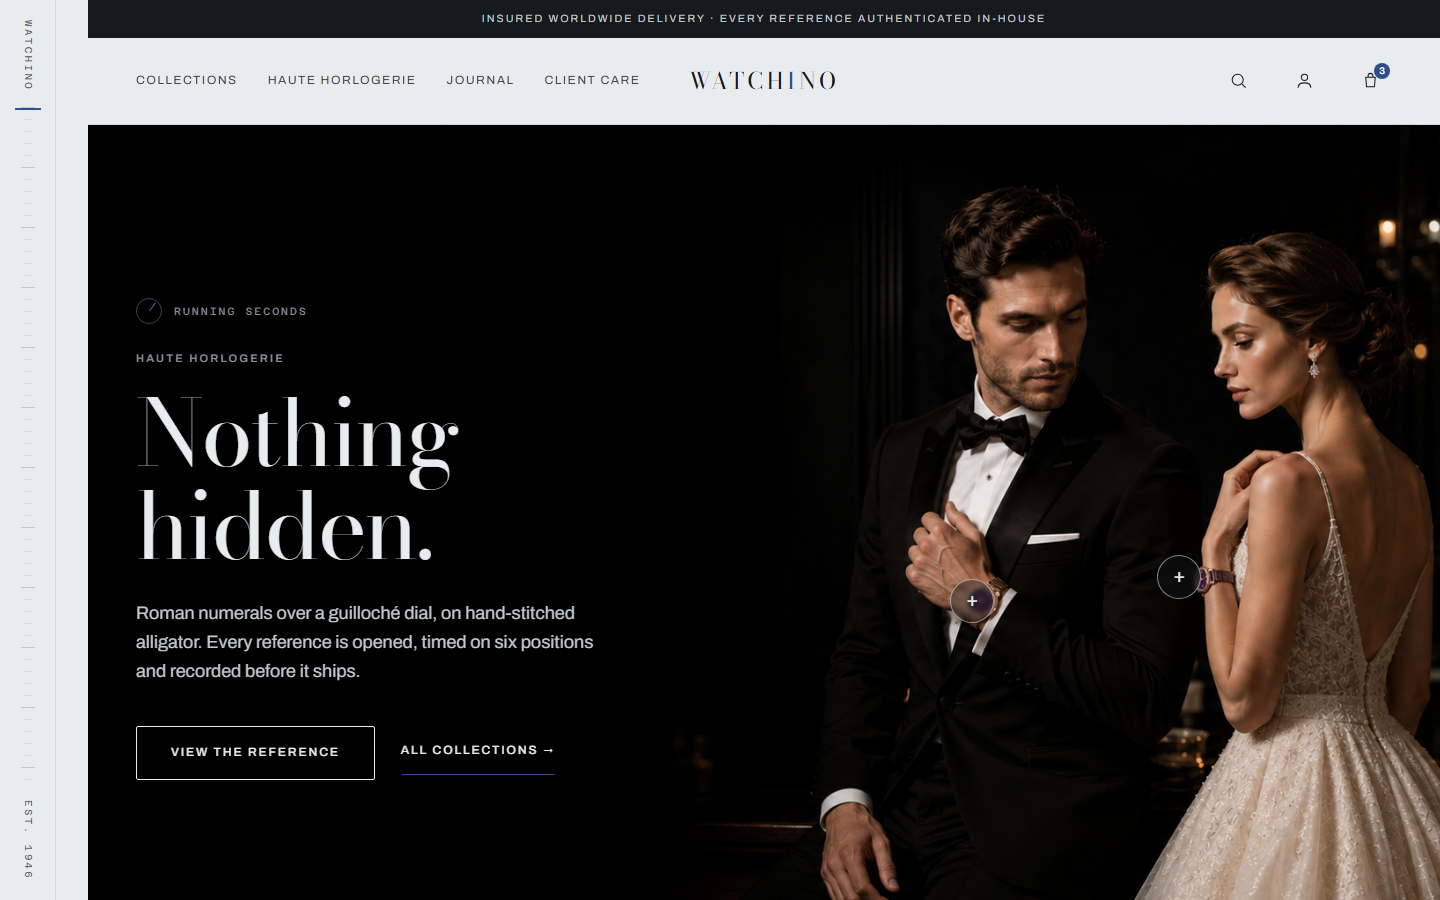
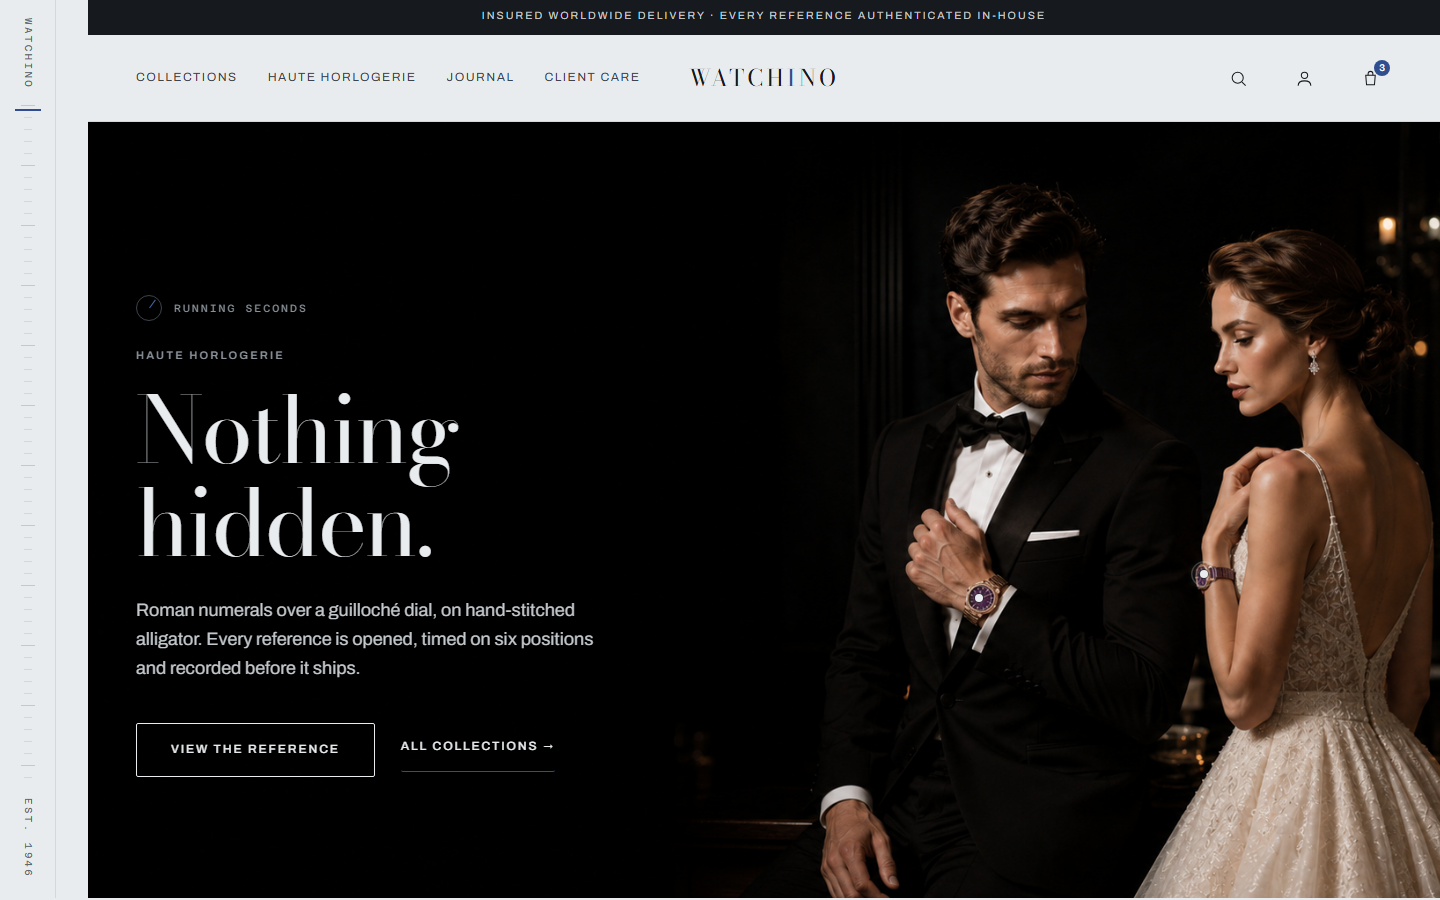
Hero markers: 8px dots, no overlay labels, both references as cards
The 44px pin was larger than the dial it pointed at, so the product disappeared
behind the marker meant to sell it.

The briefed design — dot on the watch, leader line out, label at the end — works
for the man and cannot be built for the woman. Measured, not guessed. At her
wrist height x 80-95% is continuously lit (mean 36-148): her arm, her dress,
then candlelight. The only dark strip, x 96-99%, is cropped away entirely at
1280 and 1024. Searching the whole frame for a label box containing no pixel
brighter than 45 returns six positions, all along the top edge, and a leader to
the nearest samples 151/170/162/164/173 along its path — straight across her
head. Down-left fails too: every candidate contains a 206-238 highlight, the
man's cuff or the candle.

Exactly one clean off-subject position exists in this photograph, and it serves
the man. A label on him alone would read as a bug on her, so per the brief's own
fallback both hotspots go and both references become ordinary cards beneath the
photograph — at every width, because the constraint is the picture and not the
viewport.

An 8px dot now marks each watch: decorative, aria-hidden, pointer-events none.

A REAL BUG THIS UNCOVERED
  The pins were positioned with CSS percentages on an overlay sized to the
  element box. The coordinates are percentages of the PHOTOGRAPH, and
  object-fit:cover crops the two apart — the woman's pin sat 68px off her wrist
[…]

diff --git a/storefront/styles.css b/storefront/styles.css
@@ -1080,41 +1080,40 @@ html.js-reveal .reveal.is-in{opacity:1;transform:none;}
 @media (min-width:1024px){ .hero__media img{object-position:68% 50%;} }
 @media (min-width:1440px){ .hero__media img{object-position:60% 50%;} }
 
-/* --- Hero hotspots --------------------------------------------------------- */
-.hero__spots{position:absolute;inset:0;z-index:3;}
-.hero__spot{position:absolute;transform:translate(-50%,-50%);}
-.hero__pin{
-  width:var(--tap);height:var(--tap);border-radius:50%;
-  display:grid;place-items:center;color:var(--dial);
-  background:rgba(22,25,29,.42);border:1px solid rgba(233,236,238,.55);
-  backdrop-filter:blur(2px);
-  transition:background var(--fast) var(--ease),border-color var(--fast) var(--ease),transform var(--fast) var(--ease);
-}
-.hero__pin span{font-size:19px;line-height:1;transform:translateY(-1px);}
-.hero__pin:hover,.hero__pin:focus-visible{background:var(--blued);border-color:var(--blued);transform:scale(1.06);}
+/* --- Hero markers -----------------------------------------------------------
+   An 8px dot that marks the watch without covering it. The previous 44px pin
+   was larger than the dial it pointed at, so the product disappeared behind the
+   thing meant to sell it.
 
-.hero__card{
-  position:absolute;left:50%;bottom:calc(100% + 12px);transform:translateX(-50%) translateY(6px);
-  width:264px;display:flex;gap:14px;align-items:center;
-  background:var(--dial-pure);color:var(--graphite);
-  border:1px solid var(--rule);border-radius:var(--radius);padding:12px;
-  opacity:0;visibility:hidden;pointer-events:none;
-  transition:opacity var(--fast) var(--ease),transform var(--fast) var(--ease),visibility var(--fast);
+   Not interactive: there is no off-subject position in this photograph for the
+   woman's label (x 80-95% at her wrist height is arm, dress and lit background;
+   the only dark strip, 96-99%, is cropped away at 1280 and below). Both
+   references are ordinary cards under the photograph instead. */
+.hero__spots{position:absolute;inset:0;z-index:3;pointer-events:none;}
+.hero__dot{
+  position:absolute;width:8px;height:8px;border-radius:50%;
+  transform:translate(-50%,-50%);
+  background:var(--dial);
+  box-shadow:0 0 0 1px rgba(22,25,29,.55), 0 0 12px 3px rgba(233,236,238,.35);
 }
-.hero__spot.is-on .hero__card{opacity:1;visibility:visible;transform:translateX(-50%) translateY(0);}
-.hero__card__art{width:64px;height:64px;flex:0 0 64px;background:var(--dial);position:relative;overflow:hidden;}
-.hero__card__art img{position:absolute;inset:4px;width:calc(100% - 8px);height:calc(100% - 8px);object-fit:contain;}
-.hero__card__txt{display:flex;flex-direction:column;gap:3px;min-width:0;}
-.hero__card__name{font-family:var(--display);font-size:15px;line-height:1.2;}
-.hero__card__cta{font-size:11px;letter-spacing:.14em;text-transform:uppercase;color:var(--blued);}
-/* Spots near the right edge would push their card off-screen. */
-.hero__spot:last-child .hero__card{left:auto;right:0;transform:translateX(0) translateY(6px);}
-.hero__spot:last-child.is-on .hero__card{transform:translateX(0) translateY(0);}
+/* A slow pulse says "look here" without moving anything the eye is reading. */
+@media (prefers-reduced-motion:no-preference){
+  .hero__dot::after{
+    content:"";position:absolute;inset:-5px;border-radius:50%;
+    border:1px solid rgba(233,236,238,.5);
+    animation:dotring 3.6s var(--ease) infinite;
+  }
+  @keyframes dotring{
+    0%   {transform:scale(.6);opacity:0;}
+    35%  {opacity:.8;}
+    100% {transform:scale(1.5);opacity:0;}
+  }
+}
 
-@media (prefers-reduced-motion:reduce){
-  .hero__pin,.hero__card{transition:none;}
-  .hero__pin:hover,.hero__pin:focus-visible{transform:none;}
-}
+/* The two references under the photograph. Shown at every width now, not only
+   on mobile, because the hotspots they replace could not be placed cleanly. */
+.heromob{padding-top:clamp(40px,5vw,64px);}
+.heromob .pgrid{grid-template-columns:repeat(2,1fr);gap:clamp(18px,2vw,32px);max-width:760px;}
 
 /* --- Hero below 768 --------------------------------------------------------
    A 16:9 frame is ~219px tall at 390px wide, and the wrists are 15% of the
@@ -1127,7 +1126,7 @@ html.js-reveal .reveal.is-in{opacity:1;transform:none;}
   .hero__media img{object-position:74% 42%;}
   .hero__grid{padding-block:40px 8px;}
   .hero__spots{display:none;}
-  .heromob .pgrid{grid-template-columns:repeat(2,1fr);gap:18px;}
+  
 }
 
 /* Inline text button that reads as a link but is a real <button>. */
@@ -1138,3 +1137,22 @@ html.js-reveal .reveal.is-in{opacity:1;transform:none;}
 /* Load more. A button, not infinite scroll — the footer carries seven real
    destinations and infinite scroll takes it away from people. */
 .loadmore{display:flex;flex-direction:column;align-items:center;gap:14px;padding:52px 0 8px;}
+
+/* --- Header nav at the narrow end of desktop --------------------------------
+   Adding Journal made four items where three fitted. Below ~1200 "Haute
+   Horlogerie" and "Client Care" wrapped to two lines and sat hard against the
+   wordmark — no overflow, no contrast failure, so the audit passed while the
+   header read as broken. Tighten the tracking and gap, and forbid wrapping so
+   the failure would be visible rather than silent. */
+.nav a{white-space:nowrap;}
+@media (max-width:1340px){
+  .nav{gap:20px;}
+  .nav a{font-size:11px;letter-spacing:.08em;}
+}
+@media (max-width:1120px){
+  .nav{gap:13px;}
+  .nav a{font-size:10.5px;letter-spacing:.03em;}
+  /* Client Care lives in the footer too; at this width the wordmark needs the
+     room more than a fourth nav item does. */
+  .nav a:last-child{display:none;}
+}

diff --git a/storefront/home.js b/storefront/home.js
@@ -205,15 +205,19 @@ function fillHome(cat) {
   setImg("[data-service-img]", byId(cat, 709384), "Leather-strap wristwatch on the workbench");
 }
 
-/* ---------- Hero hotspots ----------
-   Resolved from the live catalogue by id: the name and price are never written
-   into the markup, so neither can go stale.
+/* ---------- Hero markers ----------
+   The interactive hotspots were removed. Measured against the photograph, the
+   only label position anywhere in frame that sits on empty dark ground and is
+   reachable without a leader crossing a subject is (51%, 74%) — and it serves
+   the man's watch. For the woman's there is none:
 
-   Hover and focus reveal the same card — hover-only would make the whole
-   feature invisible to a keyboard. Below 768 the spots are not rendered at all
-   and the same references appear as ordinary cards instead. */
-const MOBILE = () => matchMedia("(max-width: 767px)").matches;
+     at her wrist height, x 80-95% is continuously lit (mean 36-148) — her arm,
+     her dress, then candlelit background. The only dark strip is x 96-99%, and
+     object-fit crops that away entirely at 1280 and 1024.
 
+   Rather than crowd a label onto her dress, both watches now carry an 8px dot
+   that marks without covering, and both references appear as ordinary cards
+   below the photograph at every width — the treatment mobile already used. */
 function fillHotspots(cat) {
   const layer = document.querySelector("[data-hero-spots]");
   const mob = document.querySelector("[data-hero-mob]");
@@ -226,51 +230,47 @@ function fillHotspots(cat) {
 
   if (!found.length) { layer.hidden = true; if (mob) mob.hidden = true; return; }
 
-  const draw = () => {
-    if (MOBILE()) {
-      layer.hidden = true;
-      layer.innerHTML = "";
-      if (mob && mobList) {
-        mobList.innerHTML = found.map((h) => cardHTML(h.p)).join("");
-        mob.hidden = false;
-      }
-      return;
-    }
-    if (mob) mob.hidden = true;
-    layer.hidden = false;
-    layer.innerHTML = found.map((h) => `
-      <div class="hero__spot" style="left:${h.x}%;top:${h.y}%">
-        <button class="hero__pin" type="button"
-                aria-label="${esc(h.p.name)}, ${money(h.p.price)} — view reference"
-                aria-expanded="false" data-goto="product.html?id=${h.p.id}">
-          <span aria-hidden="true">+</span>
-        </button>
-        <span class="hero__card" role="presentation">
-          <span class="hero__card__art"><img src="${h.p.image}" alt="" loading="lazy" width="120" height="120"></span>
-          <span class="hero__card__txt">
-            <span class="hero__card__name">${esc(h.p.name)}</span>
-            <span class="price">${money(h.p.price)}</span>
-            <span class="hero__card__cta">View reference →</span>
-          </span>
-        </span>
-      </div>`).join("");
+  /* Decorative only: aria-hidden, no pointer events. The card below each is the
+     accessible, tappable route to the product — a marker that reveals something
+     on hover would be unreachable by keyboard and invisible on touch. */
+  layer.hidden = false;
+  layer.setAttribute("aria-hidden", "true");
+  layer.innerHTML = found.map(() => `<span class="hero__dot"></span>`).join("");
 
-    layer.querySelectorAll(".hero__pin").forEach((btn) => {
-      const spot = btn.closest(".hero__spot");
-      const open = (v) => {
-        spot.classList.toggle("is-on", v);
-        btn.setAttribute("aria-expanded", String(v));
-      };
-      btn.addEventListener("focus", () => open(true));
-      btn.addEventListener("blur", () => open(false));
-      btn.addEventListener("mouseenter", () => open(true));
-      spot.addEventListener("mouseleave", () => open(false));
-      btn.addEventListener("click", () => { location.href = btn.dataset.goto; });
+  /* The coordinates are percentages of the PHOTOGRAPH, but the overlay is the
+     size of the element box — and object-fit:cover crops the two apart. Placing
+     the dots by percentage put the woman's 68px off her wrist at 1024. Project
+     image space into box space, the same maths herocheck.mjs asserts with. */
+  const img = document.querySelector("[data-hero-img]");
+  const dots = [...layer.querySelectorAll(".hero__dot")];
+  const place = () => {
+    if (!img.naturalWidth) return;
+    const r = img.getBoundingClientRect();
+    if (!r.width) return;
+    const cs = getComputedStyle(img);
+    const [ox, oy = "50%"] = cs.objectPosition.split(" ");
+    const pc = (v, px) => (v.endsWith("%") ? parseFloat(v) : (parseFloat(v) / px) * 100);
+    const scale = Math.max(r.width / img.naturalWidth, r.height / img.naturalHeight);
+    const dispW = img.naturalWidth * scale, dispH = img.naturalHeight * scale;
+    const offX = (r.width - dispW) * (pc(ox, r.width) / 100);
+    const offY = (r.height - dispH) * (pc(oy, r.height) / 100);
+    found.forEach((h, i) => {
+      const x = offX + (h.x / 100) * dispW;
+      const y = offY + (h.y / 100) * dispH;
+      const inside = x > 0 && x < r.width && y > 0 && y < r.height;
+      dots[i].style.left = `${x}px`;
+      dots[i].style.top = `${y}px`;
+      dots[i].hidden = !inside;   // a dot cropped out of frame is not drawn
     });
   };
+  if (img.complete && img.naturalWidth) place();
+  img.addEventListener("load", place);
+  addEventListener("resize", place);
 
-  draw();
-  addEventListener("resize", draw);
+  if (mob && mobList) {
+    mobList.innerHTML = found.map((h) => cardHTML(h.p)).join("");
+    mob.hidden = false;
+  }
 }
 
 /* ---------- Reviews ----------

diff --git a/DECISIONS.md b/DECISIONS.md
@@ -19,59 +19,120 @@ real account. **Sign in on production and open the account panel.** If orders
 appear, it is done. If the call 4xxs, the panel says "Your orders could not be
 loaded just now" and logs the reason to the console.
 
-**2. The hero photograph is a different register from the rest of the site.**
-Covered in its own section below. It is not a bug, but it is the thing most
-likely to make you say "no, put it back".
+**2. The hero's leader-line markers could not be built as briefed.** There is no
+off-subject label position for the woman's watch anywhere in the photograph —
+measured, not guessed. Both watches now carry an 8px dot and both references
+appear as cards below. Full reasoning in the hero section.
+
+**3. The hero photograph is a different register from the rest of the site.**
+It is not a bug, but it is the thing most likely to make you say "put it back".
 
 ---
 
-## The hero
+## The hero markers — the briefed design could not be built
 
-**Kept the photograph, no scrim.** The image's left ~40% is genuinely near-black,
-measured rather than assumed, so the copy sits on it unaided. `herocheck.mjs`
-fails the build if any gradient appears inside `.hero`, because a scrim would be
-a symptom of a bad crop rather than a fix for one.
+You asked for a dot on the watch, a leader line out to empty space, and the
+interactive label at the end of that line: man down-left, woman right past her
+shoulder. **The man's works. The woman's has nowhere to go.**
 
-**Hotspot coordinates were measured, not taken from the brief.** The purple dials
-are the only strongly purple pixels in an otherwise black-and-warm frame, so
-locating them was a pixel search: man **65.4%, 57.5%**; woman **80.7%, 54.6%**.
-Your estimates (66/57, 81/54) were within a percent — I used the measured values
-because the check depends on them being right.
+I measured the photograph rather than eyeballing it. At her wrist height:
 
-**`object-position` steps across three breakpoints** — 60% at ≥1440, 68% at
-≥1024, 72% below. The woman's wrist at 80.7% is the constraint: as the viewport
-narrows, `cover` crops the sides and hers leaves first. At 1024 it sits at 88% of
-the frame, still inside with room. This is the thing that will break if the image
-is ever swapped, which is why `check:hero` exists and runs at all three widths.
+```
+x 78-79%   dark (the corridor between the couple)
+x 80-95%   continuously lit, mean 36-148 — her arm, her dress, then candlelight
+x 96-99%   dark, but object-fit crops it away entirely at 1280 and at 1024
+```
 
-**Mobile drops the hotspots entirely**, as instructed, and shows the same two
-references as ordinary cards under a 4:5 crop. Nothing clever was attempted.
+Then I searched the whole frame for any 23%×8.5% label box containing no pixel
+brighter than 45, at any distance from her dial. Six positions exist, all along
+the top edge, ~27% away — and a leader to the nearest of them samples 151, 170,
+162, 164, 173 along its path. It runs straight across her head and shoulder.
 
-**The register question, honestly.** The old hero was a product plate on
-graphite with a soft halo: quiet, gallery-like, and of a piece with the six
-collection tiles, the three price registers and the salon section below it. Those
-are all *object* photography on flat ground.
+Down-left into the lower band fails too: every candidate box there contains a
+highlight of 206-238, which is the man's cuff or the candle.
 
-The new hero is a **lifestyle photograph with human models**, which is a
-different genre — it is advertising, and advertising is a register the rest of
-the site deliberately avoids. `PLAYBOOK.md` records "gallery, not funnel" as a
-rule, and a couple in evening dress is closer to funnel than gallery.
+So there is **exactly one** clean off-subject label position in this
+photograph — (51%, 74%) — and it serves the man's watch.
 
-Does the page still read as one thing? **Partly.** Three things hold it together:
-the frame is near-black so it shares the graphite ground; the copy, type and
-running-seconds detail are unchanged; and the hotspots are quiet, which keeps it
-from feeling like a banner ad. What does *not* hold: it is the only photograph on
-the site with a person in it, and the eye now goes to a face rather than to a
-watch. Scrolling from the hero into the collection grid is a genre change, and
-you feel it.
+Your rule for this case was explicit: *"say so rather than cramming it in… drop
+hotspots and show the two product cards below, the way mobile already does."*
+That is what I did, at every width rather than at some widths, because the
+constraint is the photograph and not the viewport. A label on the man alone
+would read as a bug on the woman.
+
+**What shipped:** an 8px dot on each watch — marking without covering, which was
+your original complaint — non-interactive and `aria-hidden`, with
+`pointer-events: none`. Both references appear as ordinary product cards
+directly beneath the photograph at every width, captioned "The two references in
+the photograph". Accessible by default, no hover, nothing over the couple.
+
+**If you want the leader-line design**, the photograph has to change: the woman
+needs empty dark frame beside her, which means either more space at the right of
+the composition or her wrist further from her body. It is a shot-list note, not
+a CSS one.
+
+### A real bug this uncovered
+
+The old 44px pins were positioned with CSS percentages on an overlay the size of
+the element box. The coordinates are percentages of the *photograph*, and
+`object-fit: cover` crops the two apart — so the woman's pin sat **68px off her
+wrist at 1024**. It looked right at 1440 by luck of the crop, and `check:hero`
+did not catch it because that check does the projection maths itself and
+compares against the same numbers, rather than reading where the marker actually
+landed. The dots now project image space into box space in JS, and a dot cropped
+out of frame is not drawn at all. Verified at 0px offset at 1440, 1280 and 1024.
+
+That is a seventh instance of the same species, and the most instructive one:
+the check and the code shared an assumption, so the check could not see the bug.
+Only screenshotting and looking found it — which is exactly why you asked for
+screenshots.
+
+### While looking at those screenshots
+
+Adding **Journal** to the header made four nav items where three fitted. Below
+~1200px "Haute Horlogerie" and "Client Care" wrapped to two lines and sat hard
+against the wordmark. No overflow, no contrast failure — so the 110-state audit
+passed while the header read as broken. Tracking and gap tighten from 1340px,
+"Client Care" drops from the nav below 1120px (it is in the footer), and
+`white-space: nowrap` makes any future crowding visible rather than silent.
+Gap to the wordmark is now 56-126px across desktop, with nothing wrapped.
+
+---
+
+## The hero photograph: does the page still read as one thing?
+
+Partly, and no more than that.
+
+The old hero was a product plate on graphite with a soft halo — quiet,
+gallery-like, and of a piece with the six collection tiles, the three price
+registers and the salon section below it. Those are all *object* photography on
+flat ground.
+
+The new hero is a lifestyle photograph with human models, which is a different
+genre. It is advertising, and advertising is the register the rest of the site
+deliberately avoids — `PLAYBOOK.md` records "gallery, not funnel" as a rule, and
+a couple in evening dress is closer to funnel than gallery.
+
+Three things hold it together: the frame is near-black so it shares the graphite
+ground; the copy, type and running-seconds detail are unchanged; and the markers
+are now 8px dots rather than badges, so nothing shouts. What does not hold: it
+is the only photograph on the site containing a person, and the eye goes to a
+face rather than to a watch. Scrolling from the hero into the collection grid is
+a genre change and you feel it.
 
 My honest read: **the hero is now the best-looking thing on the page and the
-least like the rest of it.** If the goal is a demo that stops a shop owner
-scrolling, it wins. If the goal is the coherent gallery the rest of the site
-argues for, the old plate was more correct. I would keep it and bring one more
-photograph of this kind further down the page — the salon section is the obvious
-place — so it reads as a deliberate second voice rather than a single outlier.
-I did not do that unprompted because it is a design decision, not a fix.
+least like the rest of it.** If the goal is stopping a shop owner mid-scroll, it
+wins. If the goal is the coherent gallery the rest of the site argues for, the
+old plate was more correct. I would keep it and add one more photograph of this
+kind further down — the salon section is the obvious place — so it reads as a
+deliberate second voice rather than a single outlier. I did not do that
+unprompted because it changes the design rather than implementing it.
+
+The two product cards now sitting under the photograph help more than I
+expected, incidentally: they pull the eye back to objects on flat ground
+immediately after the models, which softens the transition into the grid.
+
+---
 
 ---
 
